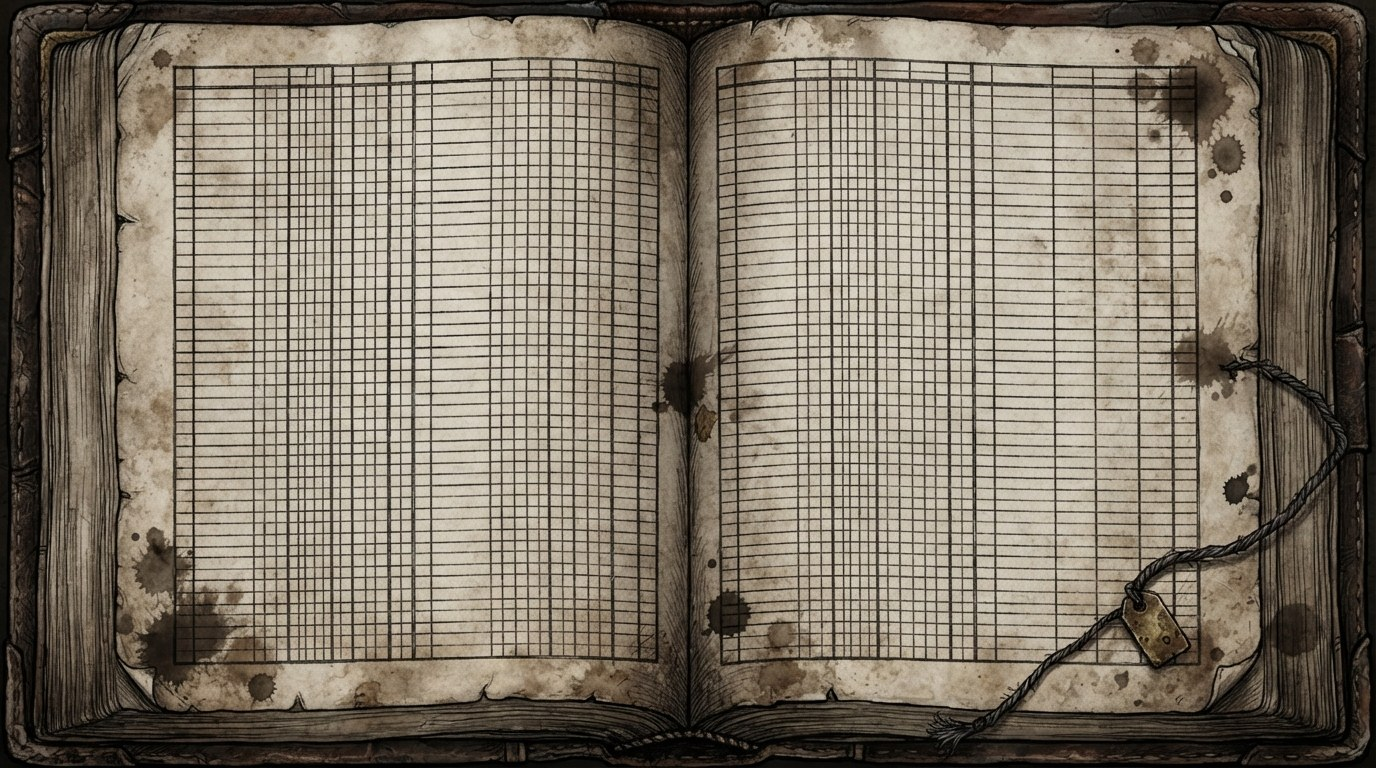
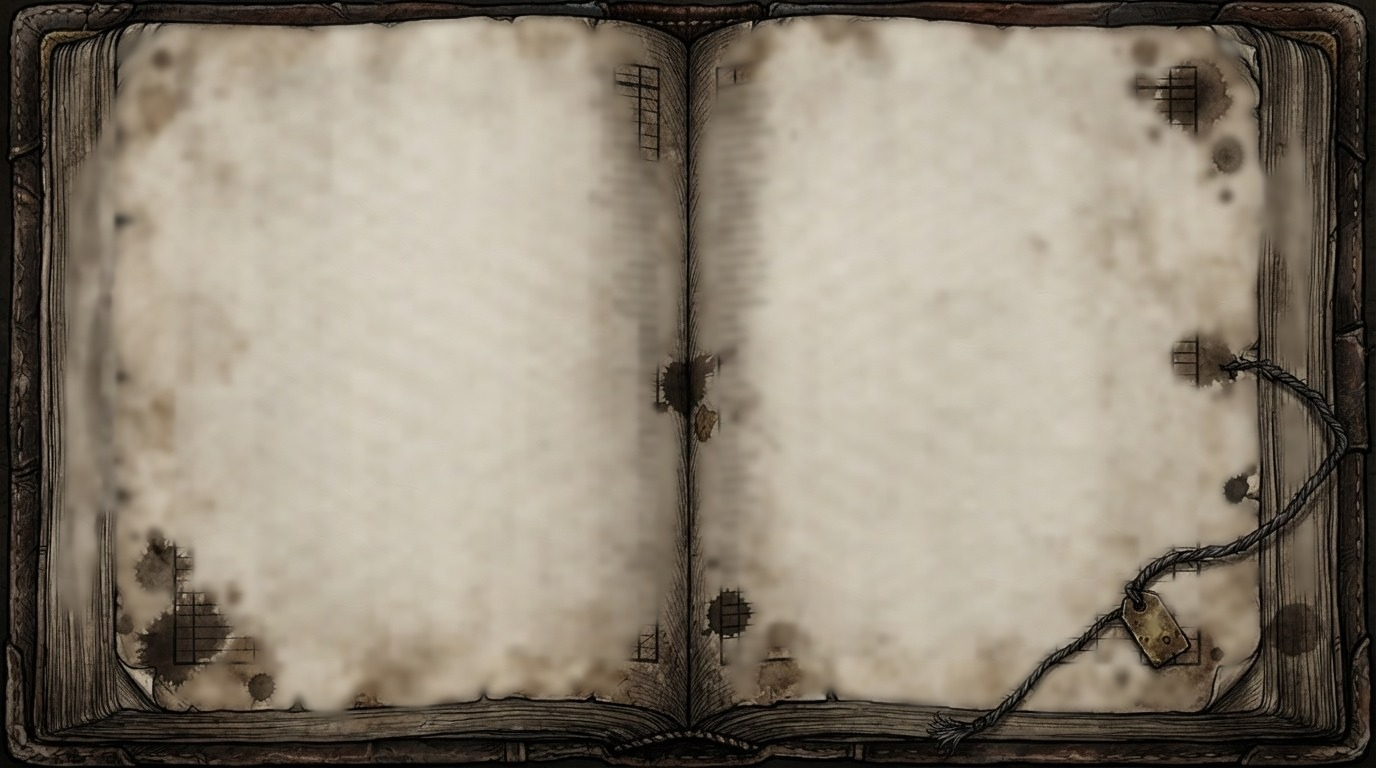
Defter okunur: cetvel cizgileri silindi (ledger_unrule araci, normalize evrisim, CC0 kagit dokusu)

diff --git a/tools/ledger_unrule.py b/tools/ledger_unrule.py
@@ -1,0 +1,76 @@
+# -*- coding: utf-8 -*-
+"""Defter sayfasının cetvel çizgilerini siler (kullanıcı bildirimi: "defter
+okunaklı değil, sayfanın tabanındaki çizgiler okunmayı engelliyor").
+
+Kaynak: art_source/waybook/l1_ledger_ruled.jpg (ikinci sanat turunun teslim ettiği
+çizgili defter; v2 teslim klasörü depoda yok, bu yüzden kaynak olarak saklandı).
+Çıktı:  data/assets/ui/waybook/l1_ledger.jpg
+
+Yöntem: sayfanın açık kâğıt bölgesinde, kâğıdın kendi tonundan (büyük medyan)
+belirgin koyu olan ve uzun yatay ya da dikey bir çizgiye ait pikseller cetvel
+sayılır; bunlar çevrelerinin medyanıyla doldurulur. Lekeler, yırtıklar, kitabın
+kenarı ve ip çizgi değil (kısa ya da düz değil), dokunulmaz.
+
+    python -X utf8 tools/ledger_unrule.py
+"""
+import os
+
+import numpy as np
+from PIL import Image
+from scipy import ndimage
+
+ROOT = os.path.dirname(os.path.dirname(os.path.abspath(__file__)))
+SRC = os.path.join(ROOT, "art_source", "waybook", "l1_ledger_ruled.jpg")
+OUT = os.path.join(ROOT, "data", "assets", "ui", "waybook", "l1_ledger.jpg")
+
+PAPER_MIN = 85.0       # bu tonun altındaki bölgeler kâğıt değil (kapak, gölge)
+LINE_DARKER = 9.0      # kâğıttan en az bu kadar koyu
+LINE_LENGTH = 31       # çizgi sayılması için en kısa düz uzunluk (px)
+
+
+GRAIN = os.path.join(ROOT, "art_source", "textures", "ambientcg", "Paper005", "Paper005_1K-JPG_Color.jpg")
+TONE_SIGMA = 4.0       # kâğıt tonunun ölçeği: lekeler kalır, cetvel aralığı (~10 px) silinir
+
+
+def line_mask(rgb: np.ndarray) -> tuple[np.ndarray, np.ndarray]:
+    grey = rgb.astype(np.float32) @ np.array([0.299, 0.587, 0.114], np.float32)
+    paper = ndimage.median_filter(grey, size=25)
+    dark = (paper - grey) > LINE_DARKER
+    on_paper = ndimage.binary_erosion(paper > PAPER_MIN, iterations=2)
+    dark &= on_paper
+    horizontal = ndimage.binary_opening(dark, structure=np.ones((1, LINE_LENGTH), bool))
+    vertical = ndimage.binary_opening(dark, structure=np.ones((LINE_LENGTH, 1), bool))
+    lines = ndimage.binary_dilation(horizontal | vertical, iterations=1)
+    return lines, on_paper
+
+
+def unrule(rgb: np.ndarray) -> np.ndarray:
+    lines, on_paper = line_mask(rgb)
+    keep = (~lines).astype(np.float32)
+    src = rgb.astype(np.float32)
+    # Normalize evrişim: yalnızca çizgi olmayan piksellerden kâğıt tonu.
+    weight = ndimage.gaussian_filter(keep, TONE_SIGMA)
+    tone = np.stack([ndimage.gaussian_filter(src[..., c] * keep, TONE_SIGMA) for c in range(3)], -1)
+    tone /= np.maximum(weight, 1e-3)[..., None]
+    if os.path.exists(GRAIN):
+        g = Image.open(GRAIN).convert("L")
+        tile = np.asarray(g, np.float32) / 255.0
+        h, w = rgb.shape[:2]
+        reps = (h // tile.shape[0] + 1, w // tile.shape[1] + 1)
+        grain = np.tile(tile, reps)[:h, :w]
+        grain = 1.0 + (grain - grain.mean()) * 0.35
+        tone *= grain[..., None]
+    # Kâğıt bölgesi yeniden kurulur; sınırda yumuşak geçiş, kâğıt dışı olduğu gibi.
+    page = ndimage.gaussian_filter(on_paper.astype(np.float32), 3.0)[..., None]
+    out = tone * page + src * (1.0 - page)
+    return np.clip(out, 0, 255).astype(np.uint8)
+
+
+def main() -> None:
+    rgb = np.asarray(Image.open(SRC).convert("RGB"))
+    Image.fromarray(unrule(rgb)).save(OUT, quality=92)
+    print("yazıldı:", OUT)
+
+
+if __name__ == "__main__":
+    main()
